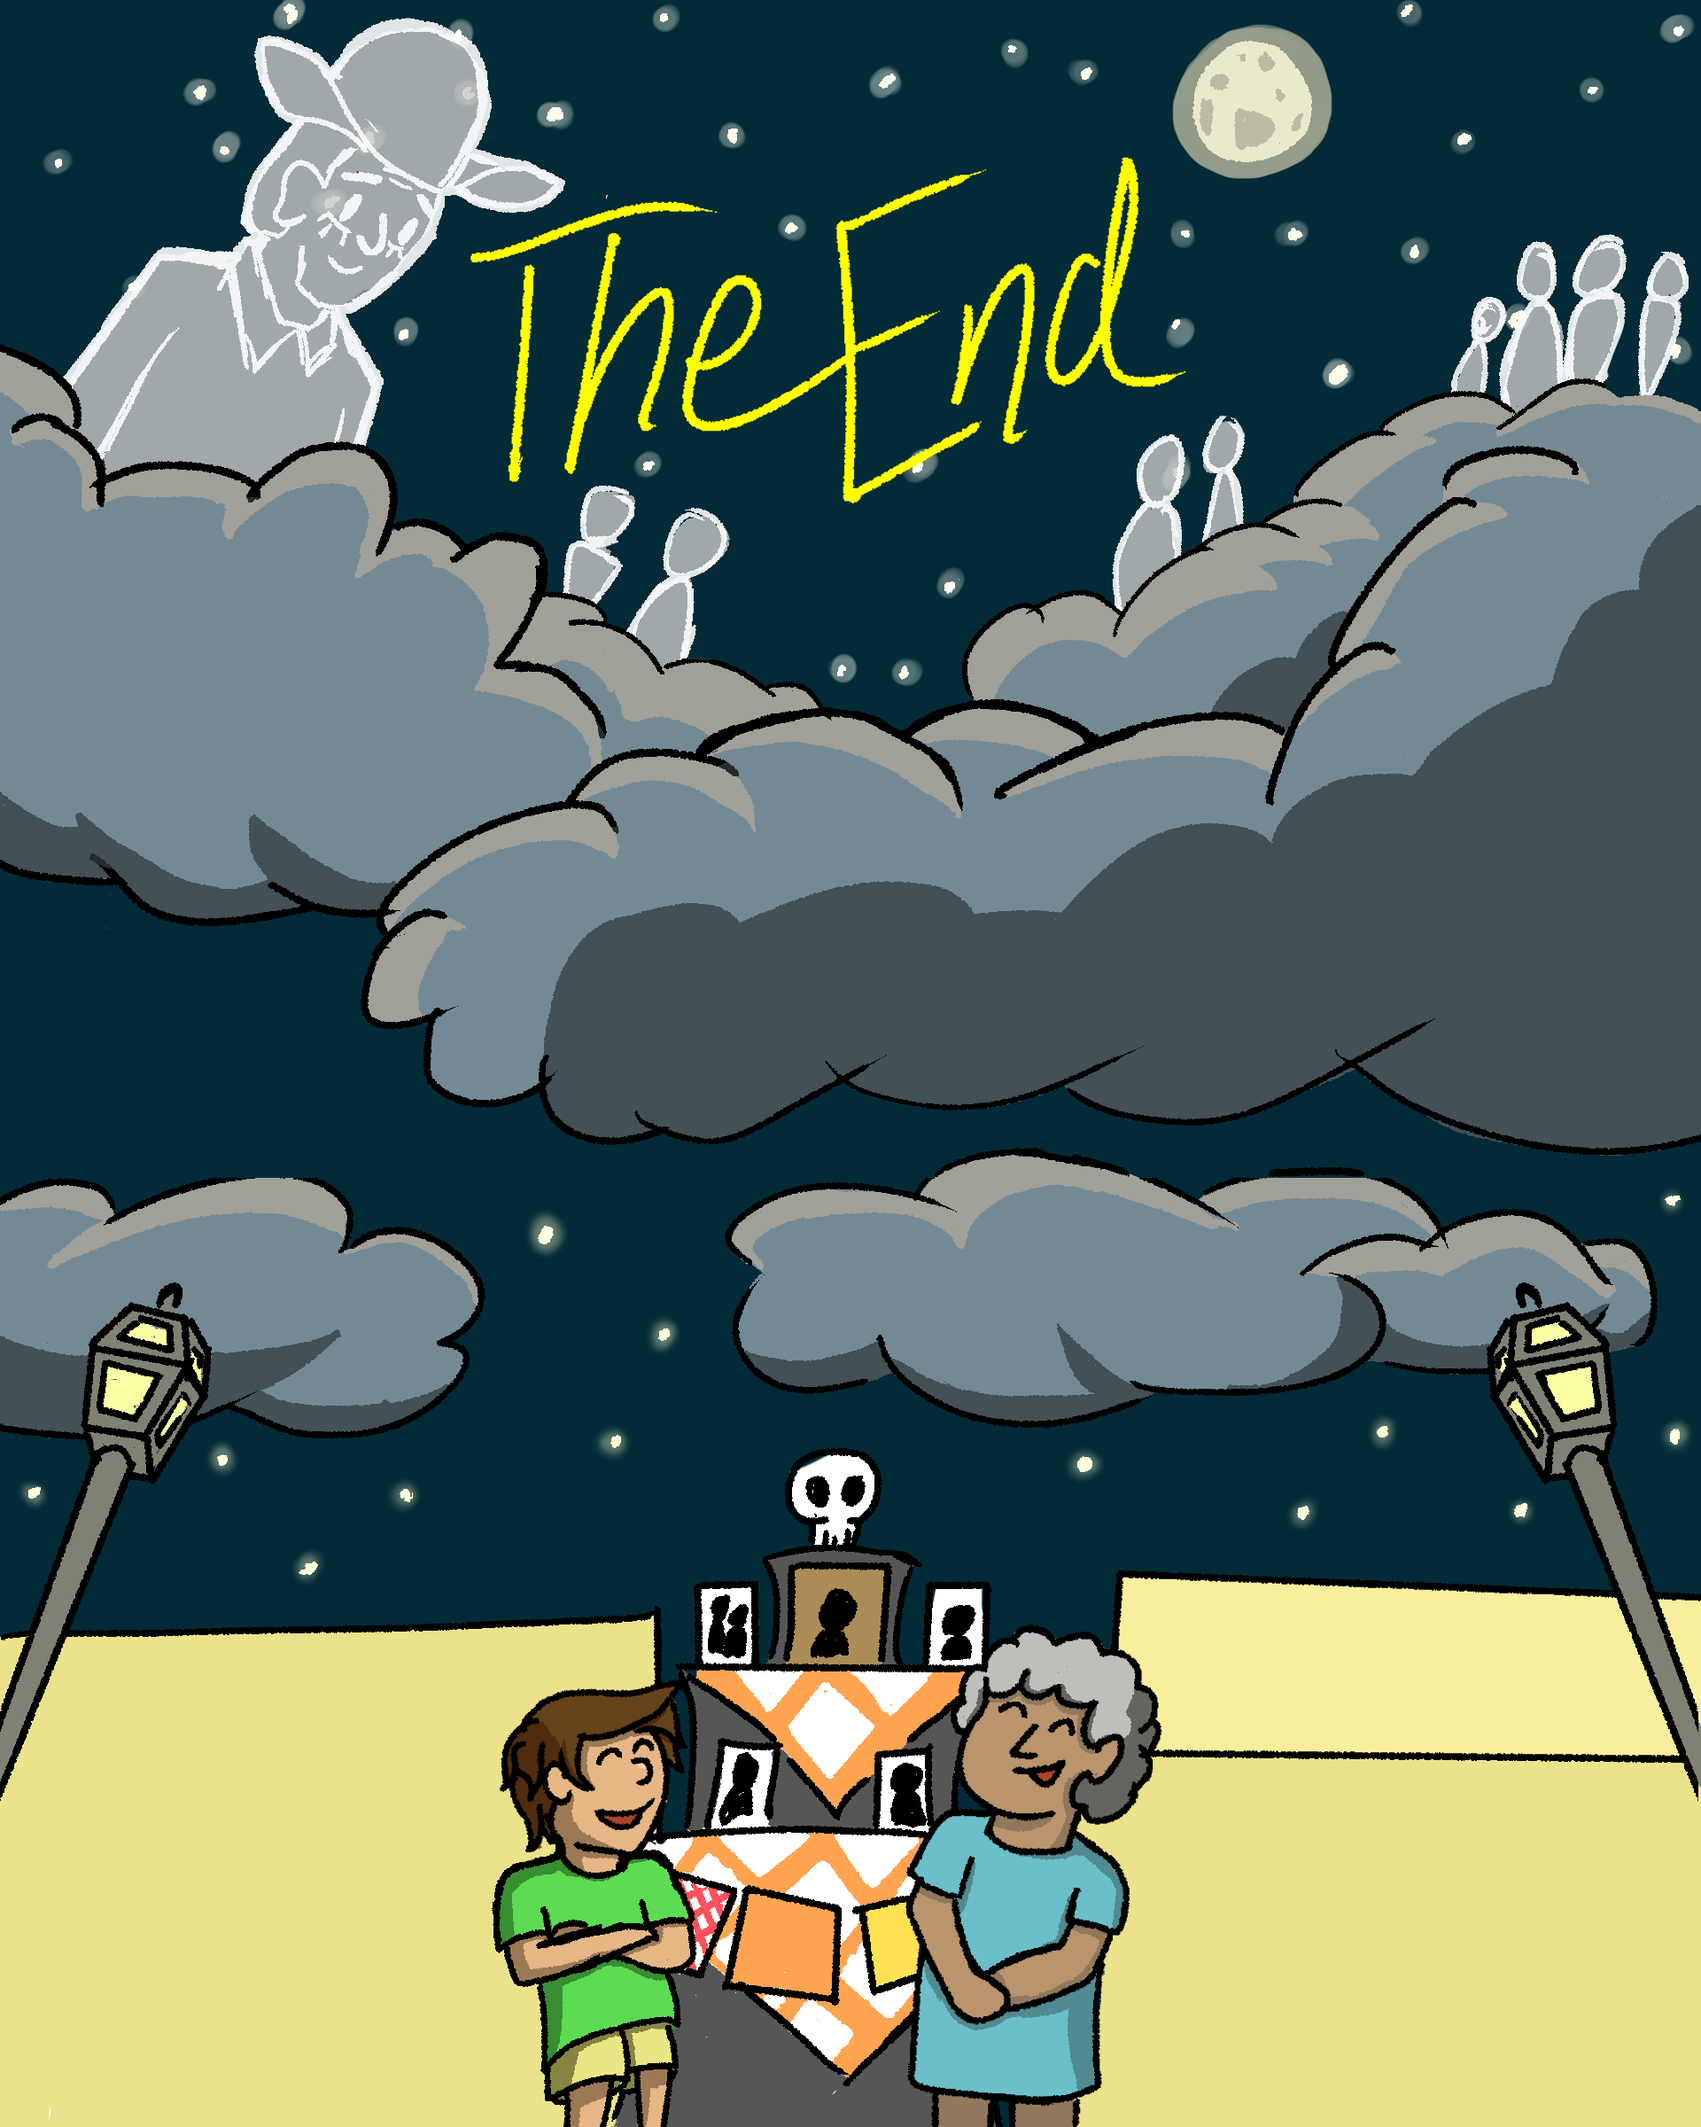
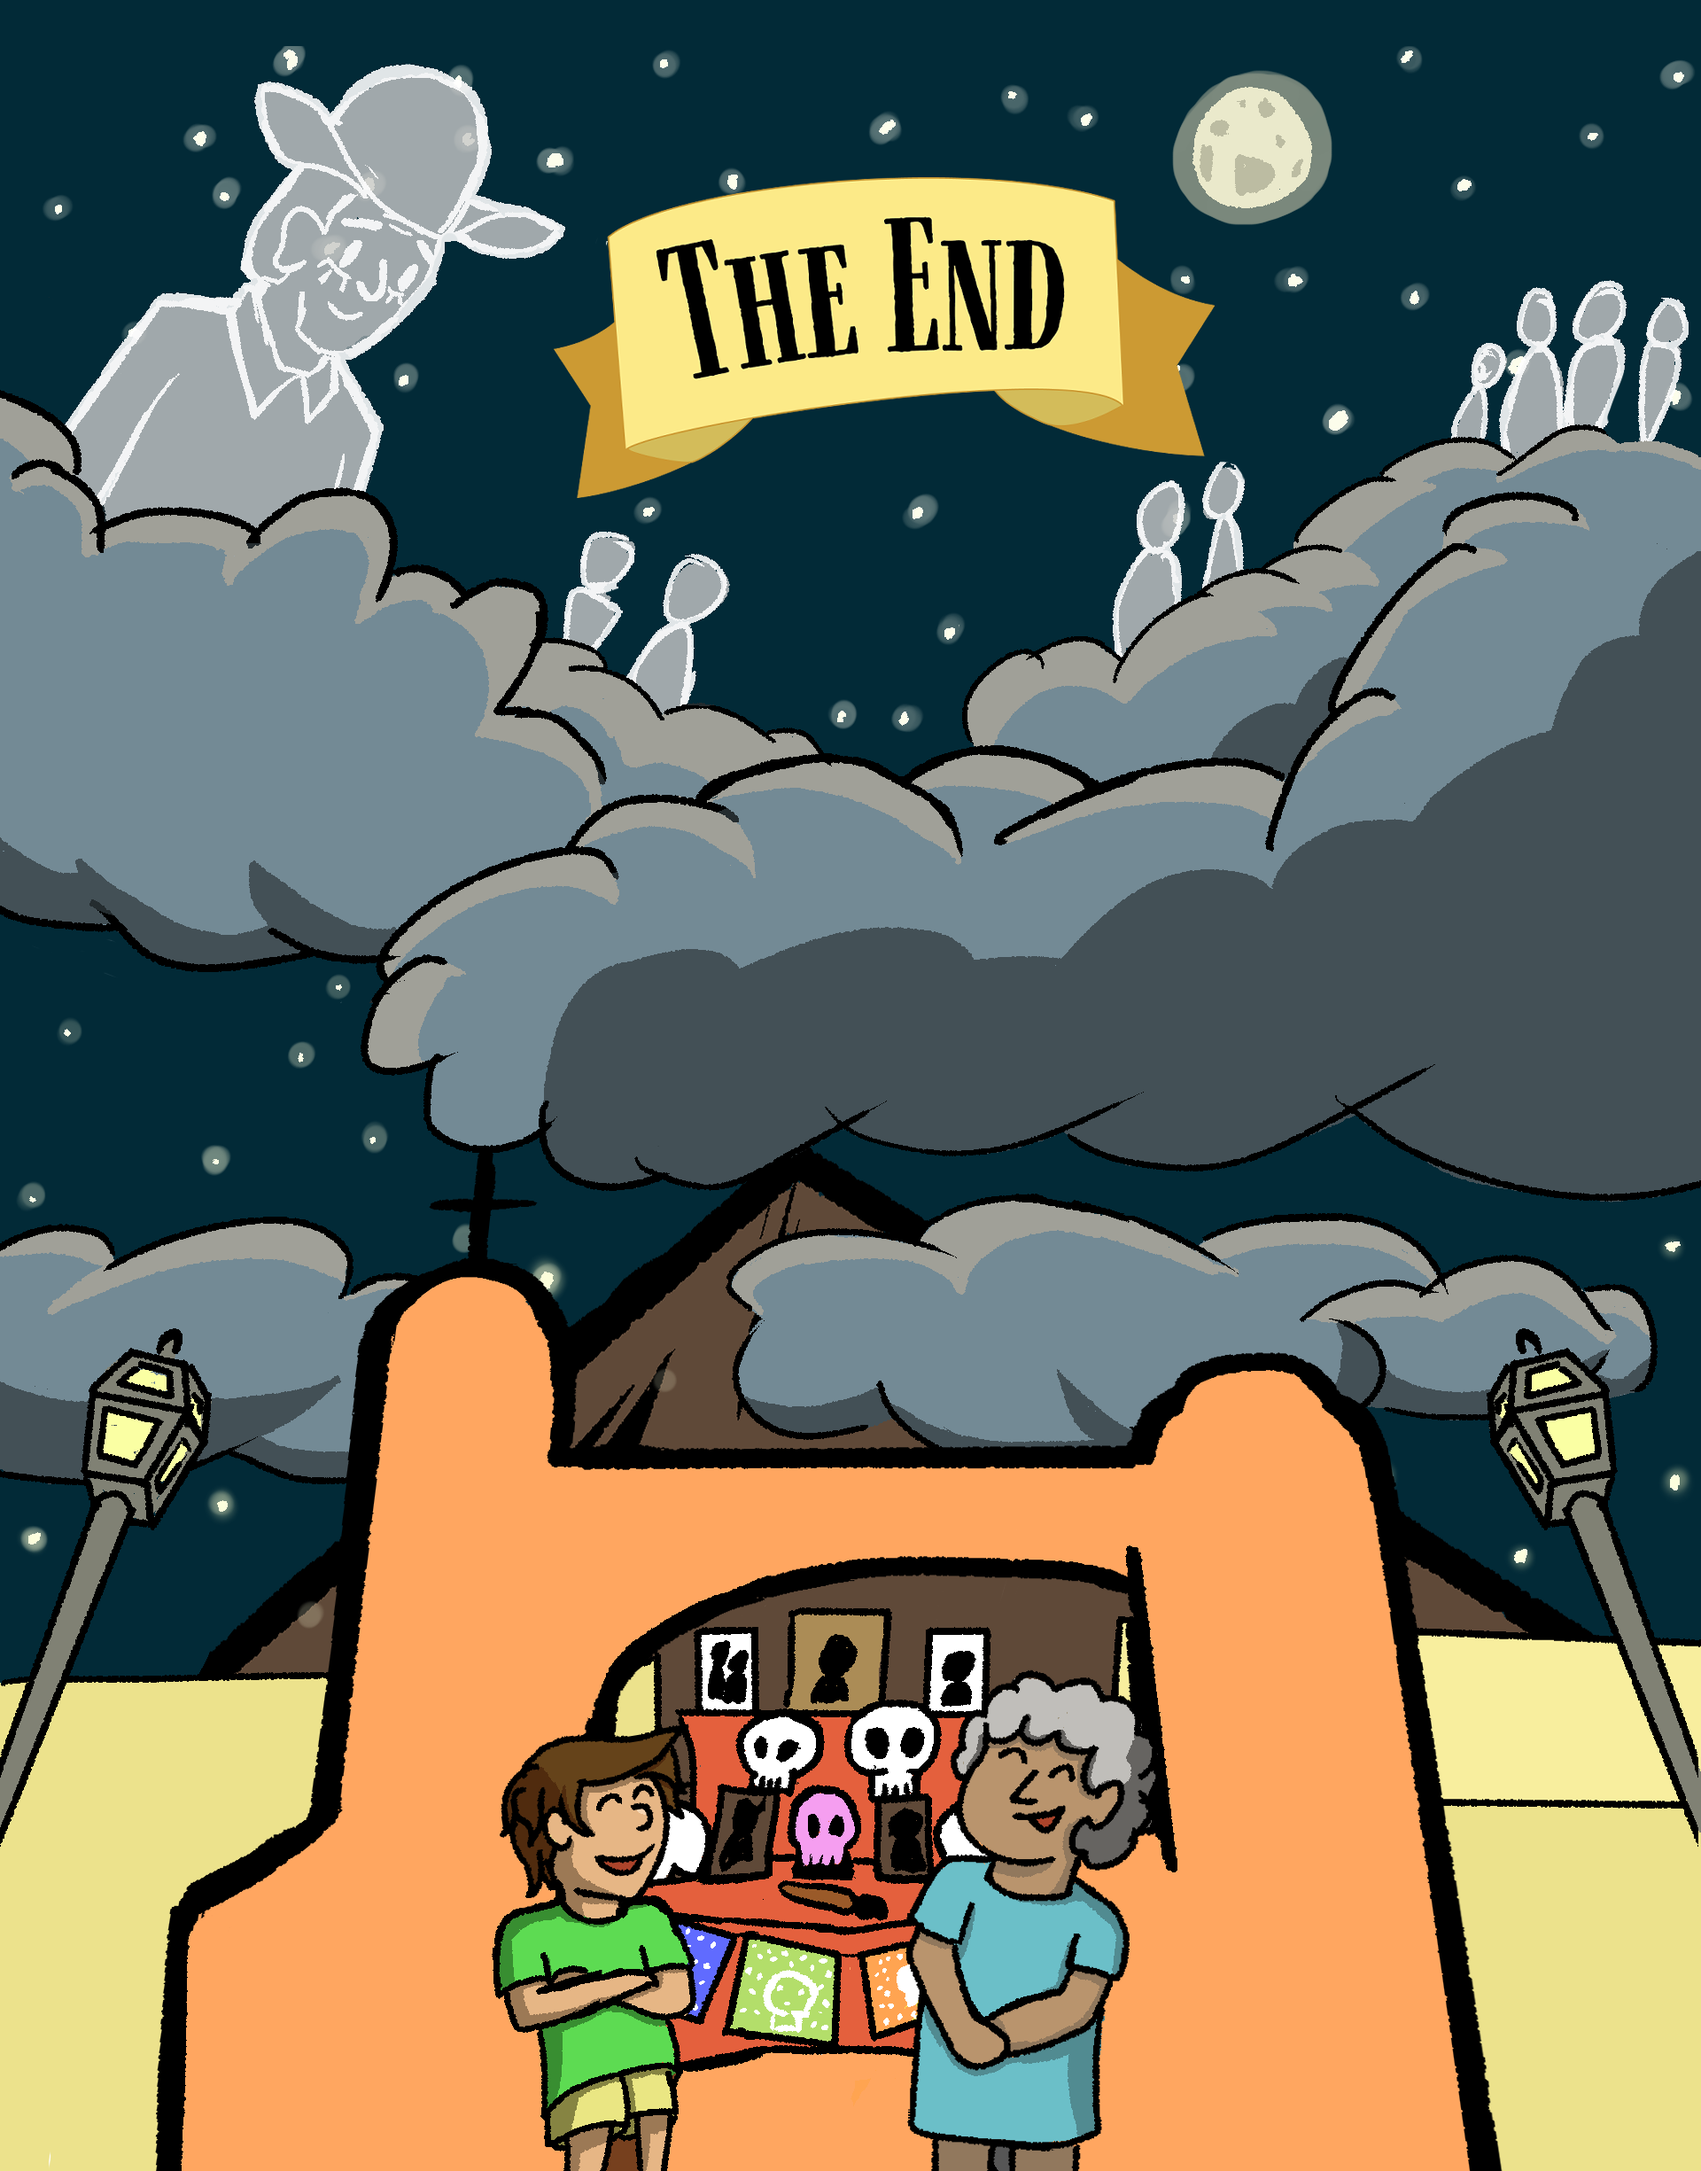
Add in new image for ending

diff --git a/Assets/Cristian/Scripts/EndScreen.cs b/Assets/Cristian/Scripts/EndScreen.cs
@@ -2,12 +2,13 @@
 using System.Collections.Generic;
 using UnityEngine;
 using UnityEngine.SceneManagement;
+using UnityEngine.UI;
 
 
 public class EndScreen : MonoBehaviour, Fadeable
 {
     public float MoveRate;
-    public GameObject BackGroundImage;
+    public Image BackGroundImage;
     public FadeOutManager fadeOutManager;
     private bool Movebackground;
 
@@ -29,11 +30,11 @@ public class EndScreen : MonoBehaviour, Fadeable
     public void MoveImage()
     {
         BackGroundImage.transform.position = new Vector3(BackGroundImage.transform.position.x,
-    BackGroundImage.transform.position.y + MoveRate, BackGroundImage.transform.position.z);
+        BackGroundImage.transform.position.y + MoveRate, BackGroundImage.transform.position.z);
 
         Debug.Log("Y Value of the image " + BackGroundImage.transform.position.y);
         
-        if (BackGroundImage.transform.position.y < -75f)
+        if (BackGroundImage.transform.position.y < 5f)
         {
             Movebackground = false;
             StartCoroutine(EndMovingBackground());
